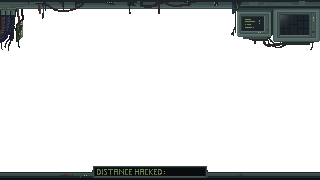
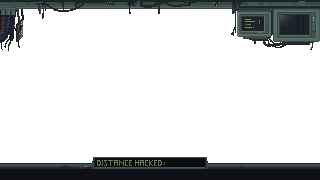
WALLE

Changed region(s): [[0.0, 0.8611, 1.0, 1.0]]

diff --git a/Assets/Player/PlayerController.cs b/Assets/Player/PlayerController.cs
@@ -24,6 +24,8 @@ namespace Assets.Player
         private int _lane_index;
         private float _movement_y_last_frame;
         private float _distance;
+        private float _temp_boost_until;
+        private bool _boosting;
 
 
         // Public interface.
@@ -40,7 +42,7 @@ namespace Assets.Player
 
         public void BoostHorizontalVelocity()
         {
-            _horizontal_velocity += 0.015f;
+            _horizontal_velocity += 0.02f;
         }
 
         public void DoubleHorizontalVelocity()
@@ -70,6 +72,8 @@ namespace Assets.Player
             _lane_index = 0;
             _movement_y_last_frame = 0;
             _distance = 0;
+            _temp_boost_until = 0;
+            _boosting = false;
         }
 
         public int DistanceTravelled()
@@ -96,6 +100,13 @@ namespace Assets.Player
 
            // _horizontal_velocity = CalculateHorizontalVelocity(_horizontal_velocity, input.x, MaxHorizontalVelocity, HorizontalAcceleration);
             //rigidbody2D.velocity = new Vector2(_horizontal_velocity, CalculateVerticalVelocity(rigidbody2D.velocity.y, transform.position, _collider, GroundLayerMask));
+
+            if (_boosting && Time.time > _temp_boost_until)
+            {
+                _boosting = false;
+                _horizontal_velocity /= 4;
+            }
+
 
             var target_lane_dist = (_beat_matcher.Lanes[_lane_index]*0.16f + 0.04f) - transform.position.y;
             transform.position += new Vector3(_horizontal_velocity, target_lane_dist * 5, 0) * Time.deltaTime;
@@ -181,6 +192,12 @@ namespace Assets.Player
                 return true;
 
             return Physics2D.Raycast(position, new Vector2(0, -1), collider.radius + collider.radius, ground_layer_mask).collider != null;
+        }
+
+        public void Boost()
+        {
+            _distance += 5.0f;
+            _horizontal_velocity += 0.05f;
         }
     }
 }

diff --git a/Assets/BeatMatcher.cs b/Assets/BeatMatcher.cs
@@ -11,6 +11,7 @@ namespace Assets
         private float _timer;
         private Vector2 _last_spawn_player_pos;
         public GameObject[] Blocks;
+        public GameObject Walle;
         private System.Random _random;
         public int[] Lanes;
         private int _lane_combo;
@@ -73,6 +74,9 @@ namespace Assets
                 if (rand_increase < (20/divisor))
                     SpawnBlock(current_player_pos, _random.Next(), distance_to_spawn_at, 1 + _random.Next() % 2);
 
+                if (rand_increase <= 1)
+                    SpawnWalle(current_player_pos, _random.Next(), distance_to_spawn_at);
+
                 var min_distance = distance_to_spawn_at / divisor;
 
                 if (distance_since_last_spawn > min_distance)
@@ -97,6 +101,21 @@ namespace Assets
                         Quaternion.identity);
             var block_comp = block.GetComponent<TileFloaty>();
             block_comp.SetHitTime(Time.time + Beat * (16 + extra_beat));
+        }
+
+        private void SpawnWalle(Vector2 current_player_pos, int r, float distance_to_spawn_at, int extra_beat = 0)
+        {
+            --_lane_combo;
+
+            if (_lane_combo == 0)
+                NewLane();
+
+            _last_spawn_player_pos = current_player_pos;
+            var block =
+                (GameObject)
+                    Instantiate(Walle,
+                        new Vector2(distance_to_spawn_at + extra_beat * _controller.GetHorizontalVelocity() * Beat, Lanes[_random.Next() % Lanes.Count()] * 0.16f + 0.035f) + new Vector2(current_player_pos.x, 0),
+                        Quaternion.identity);
         }
     }
 }

diff --git a/Assets/WallE.cs b/Assets/WallE.cs
@@ -1,0 +1,36 @@
+using UnityEngine;
+using Animator = Assets.Player.Animator;
+
+namespace Assets
+{
+    public class WallE : MonoBehaviour
+    {
+        public GameObject Explosion;
+        private bool _up = true;
+        private System.Random _random;
+        private float _start_y;
+
+        void Start ()
+        {
+            _random = new System.Random();
+            _start_y = transform.position.y;
+        }
+
+        void Update ()
+        {
+            transform.position += new Vector3(-0.6f, 0, 0) * Time.deltaTime;
+            transform.position = new Vector3(transform.position.x, _start_y + (_up ? 0.005f : -0.005f), 0);
+            _up = !_up;
+        }
+
+        public void Explode()
+        {
+            for (var i = 0; i < 10; ++i)
+            {
+                var go = (GameObject)Instantiate(Explosion, transform.position + new Vector3((_random.Next() % 100) / 500.0f - 0.1f, (_random.Next() % 100) / 500.0f - 0.1f, (_random.Next() % 100) / 500.0f - 0.1f), transform.rotation);
+                go.GetComponent<Animator>().AnimationSpeed = _random.Next()%255/512.0f;
+                go.GetComponent<SpriteRenderer>().color = new Color((_random.Next()%255)/255.0f, (_random.Next()%255)/255.0f, (_random.Next()%255)/255.0f, 1);
+            }
+        }
+    }
+}

diff --git a/Assets/Player/WeaponStrike.cs b/Assets/Player/WeaponStrike.cs
@@ -54,6 +54,14 @@ namespace Assets.Player
 
                 if (floaty != null)
                     floaty.Explode();
+                    
+                var walle = o.GetComponent<WallE>();
+
+                if (walle != null)
+                {
+                    walle.Explode();
+                    _player_controller.Boost();
+                }
 
                 Destroy(o.gameObject);
 

diff --git a/Assets/Score.cs b/Assets/Score.cs
@@ -38,7 +38,7 @@ namespace Assets
             var current_x = 0.09f;
             foreach (var c in score_as_string)
             {
-                var p = new Vector2(current_x, -0.82f);
+                var p = new Vector2(current_x, -0.73f);
 
                 switch (c)
                 {
